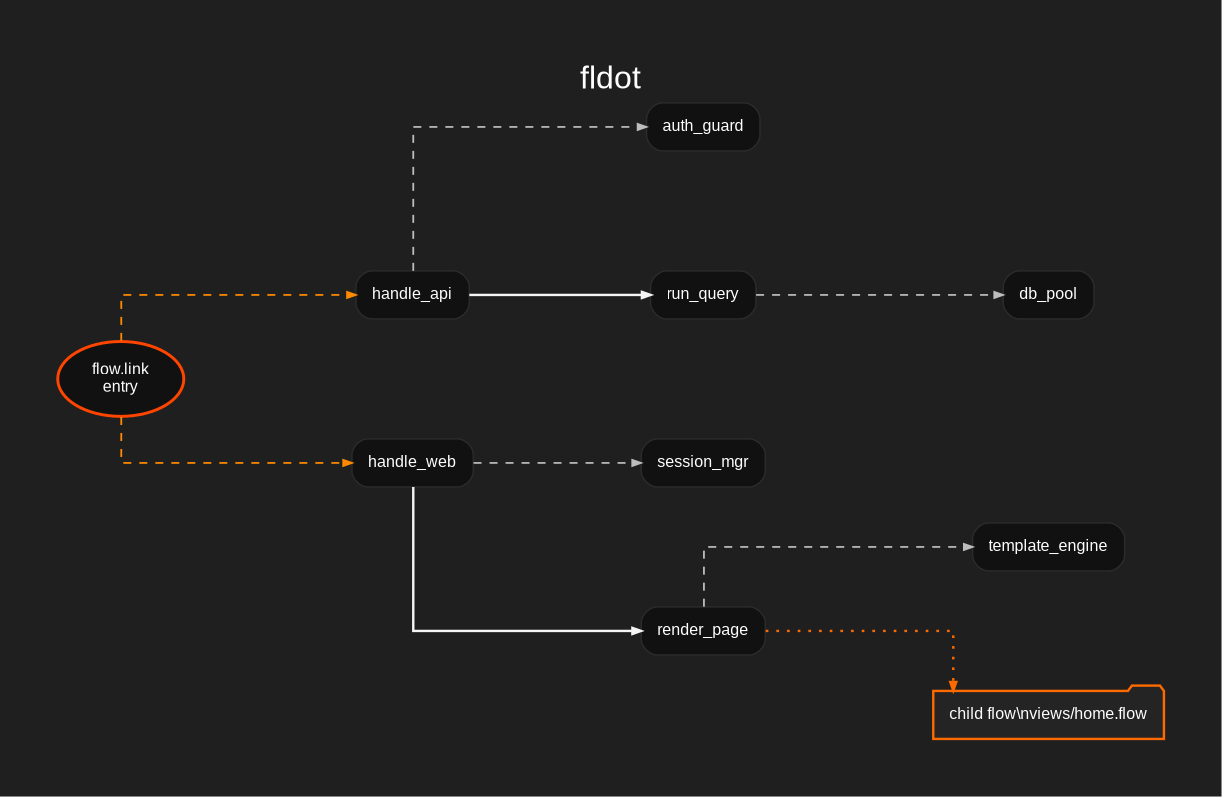
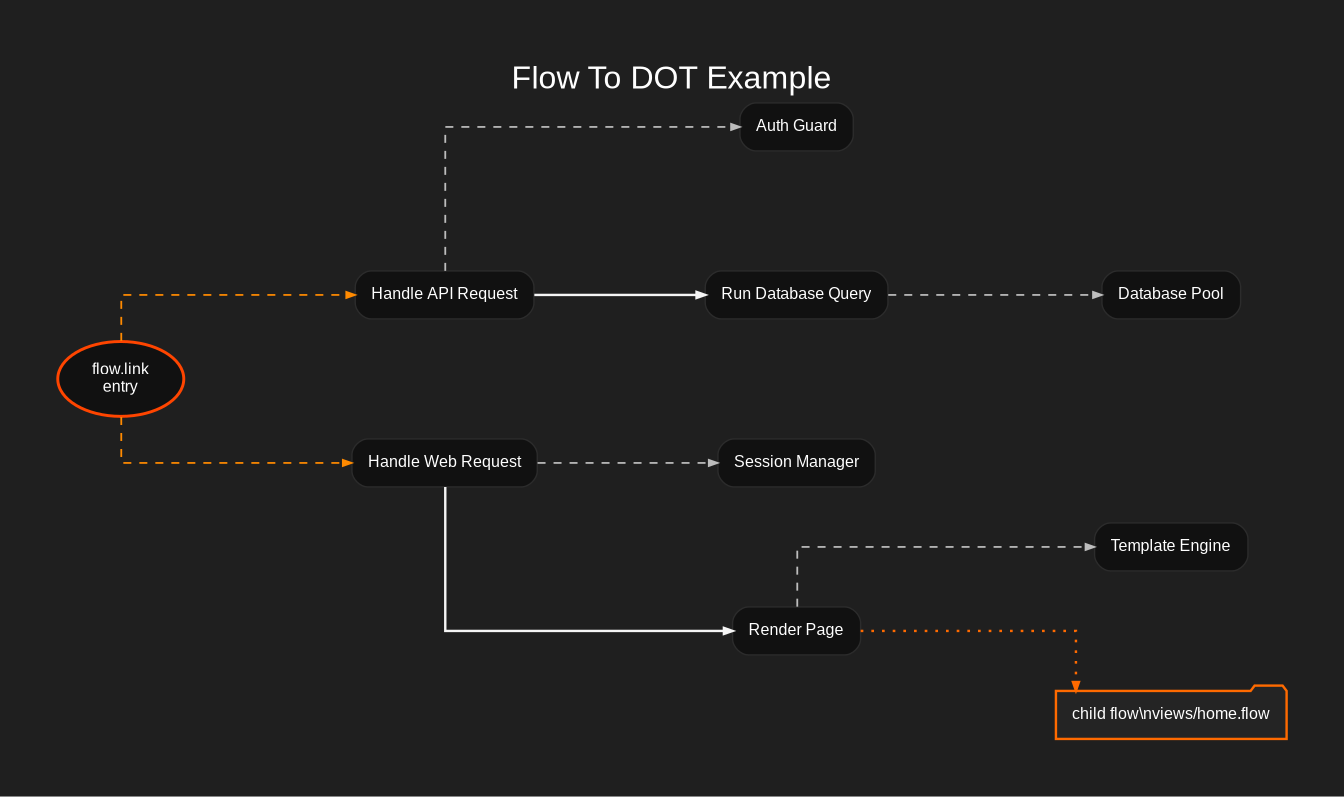
docs: add metadata section to README and enhance example files with metadata titles

diff --git a/src/fldot.c b/src/fldot.c
@@ -122,6 +122,19 @@ static void kc_records_add(kc_flow_records *r, const char *key, const char *valu
 }
 
 /**
+ * @brief Find one record value by exact key.
+ * @param r Records array.
+ * @param key Key to search.
+ * @return Matching value, or NULL when missing.
+ */
+static const char *kc_records_get(const kc_flow_records *r, const char *key) {
+    for (size_t i = 0; i < r->count; i++) {
+        if (strcmp(r->items[i].key, key) == 0) return r->items[i].value;
+    }
+    return NULL;
+}
+
+/**
  * @brief Add a unique string to the dynamic array.
  * @param s Strings array.
  * @param v Value to add.
@@ -160,6 +173,40 @@ static void kc_dot_quote(FILE *out, const char *s) {
         }
     }
     fputc('"', out);
+}
+
+/**
+ * @brief Build one metadata key for a referenced flow element.
+ * @param prefix Element prefix.
+ * @param ref Element reference.
+ * @param field Metadata field name.
+ * @return Allocated metadata key.
+ */
+static char *kc_meta_key(const char *prefix, const char *ref, const char *field) {
+    size_t n = strlen(prefix) + strlen(ref) + strlen(".meta.") + strlen(field);
+    char *key = (char *)kc_xmalloc(n + 1);
+    sprintf(key, "%s%s.meta.%s", prefix, ref, field);
+    return key;
+}
+
+/**
+ * @brief Find metadata for a referenced flow element.
+ * @param r Records array.
+ * @param prefix Element prefix.
+ * @param ref Element reference.
+ * @param field Metadata field name.
+ * @return Metadata value, or NULL when missing.
+ */
+static const char *kc_meta_value(
+const kc_flow_records *r,
+const char *prefix,
+const char *ref,
+const char *field
+) {
+    char *key = kc_meta_key(prefix, ref, field);
+    const char *value = kc_records_get(r, key);
+    free(key);
+    return value;
 }
 
 /**
@@ -282,6 +329,7 @@ static int kc_fldot_read_records(FILE *fp, kc_flow_records *r) {
 static int kc_fldot_generate_dot(const kc_flow_records *r, FILE *out) {
     kc_flow_strings nodes = {0}, funcs = {0}, files = {0};
     const char *flow_id = "flow";
+    const char *flow_title = NULL;
     for (size_t i = 0; i < r->count; i++) {
         char *ref = NULL, *field;
         if ((field = kc_field_after(r->items[i].key, "node.", &ref))) {
@@ -300,20 +348,29 @@ static int kc_fldot_generate_dot(const kc_flow_records *r, FILE *out) {
         }
     }
 
+    flow_title = kc_records_get(r, "flow.meta.title");
+    if (!flow_title) flow_title = flow_id;
+
     fprintf(out, "digraph "); kc_dot_quote(out, flow_id); fputs(" {\n", out);
-    fprintf(out, "  graph [rankdir=\"" KCV_GRAPH_RANKDIR "\", bgcolor=\"" KCV_BG "\", fontname=\"" KCV_FONT "\", fontcolor=\"" KCV_GRAPH_TEXT "\", label=\"%s\", labelloc=t, fontsize=" KCV_GRAPH_FONTSIZE ", pad=" KCV_GRAPH_PAD ", nodesep=" KCV_GRAPH_NODESEP ", ranksep=" KCV_GRAPH_RANKSEP ", splines=\"" KCV_GRAPH_SPLINES "\"];\n", flow_id);
+    fprintf(out, "  graph [rankdir=\"" KCV_GRAPH_RANKDIR "\", bgcolor=\"" KCV_BG "\", fontname=\"" KCV_FONT "\", fontcolor=\"" KCV_GRAPH_TEXT "\", label=");
+    kc_dot_quote(out, flow_title);
+    fputs(", labelloc=t, fontsize=" KCV_GRAPH_FONTSIZE ", pad=" KCV_GRAPH_PAD ", nodesep=" KCV_GRAPH_NODESEP ", ranksep=" KCV_GRAPH_RANKSEP ", splines=\"" KCV_GRAPH_SPLINES "\"];\n", out);
     fprintf(out, "  node [shape=\"" KCV_NODE_SHAPE "\", style=\"" KCV_NODE_STYLE "\", fillcolor=\"" KCV_NODE_FILL "\", color=\"" KCV_NODE_BORDER "\", fontname=\"" KCV_FONT "\", fontcolor=\"" KCV_NODE_TEXT "\", fontsize=" KCV_NODE_FONTSIZE ", margin=\"" KCV_NODE_MARGIN "\"];\n");
     fprintf(out, "  edge [arrowsize=" KCV_EDGE_ARROWSIZE ", penwidth=" KCV_EDGE_PENWIDTH "];\n");
     kc_dot_quote(out, "flow:entry"); fputs(" [label=\"flow.link\\nentry\", shape=\"" KCV_ENTRY_SHAPE "\", fillcolor=\"" KCV_ENTRY_FILL "\", color=\"" KCV_ENTRY_BORDER "\", penwidth=" KCV_ENTRY_PENWIDTH "];\n", out);
 
     for (size_t i = 0; i < nodes.count; i++) {
+        const char *label = kc_meta_value(r, "node.", nodes.items[i], "title");
+        if (!label) label = nodes.items[i];
         char b[1024]; snprintf(b, sizeof(b), "node:%s", nodes.items[i]);
-        kc_dot_quote(out, b); fprintf(out, " [label="); kc_dot_quote(out, nodes.items[i]); fputs("];\n", out);
+        kc_dot_quote(out, b); fprintf(out, " [label="); kc_dot_quote(out, label); fputs("];\n", out);
     }
     for (size_t i = 0; i < funcs.count; i++) {
         char b[1024]; snprintf(b, sizeof(b), "func:%s", funcs.items[i]);
         char l[1024]; snprintf(l, sizeof(l), "func.%s", funcs.items[i]);
-        kc_dot_quote(out, b); fprintf(out, " [label="); kc_dot_quote(out, l); fputs(", shape=\"" KCV_FUNC_SHAPE "\", fillcolor=\"" KCV_FUNC_FILL "\", color=\"" KCV_FUNC_BORDER "\", penwidth=" KCV_FUNC_PENWIDTH "];\n", out);
+        const char *label = kc_meta_value(r, "func.", funcs.items[i], "title");
+        if (!label) label = l;
+        kc_dot_quote(out, b); fprintf(out, " [label="); kc_dot_quote(out, label); fputs(", shape=\"" KCV_FUNC_SHAPE "\", fillcolor=\"" KCV_FUNC_FILL "\", color=\"" KCV_FUNC_BORDER "\", penwidth=" KCV_FUNC_PENWIDTH "];\n", out);
     }
     for (size_t i = 0; i < files.count; i++) {
         char b[1024]; snprintf(b, sizeof(b), "file:%s", files.items[i]);

diff --git a/README.md b/README.md
@@ -43,6 +43,27 @@ dot -Tpng example.dot -o example.png
 
 ---
 
+## Flow Metadata
+
+Flow documents may attach display metadata under the `meta` namespace:
+
+```flow
+flow.meta.title=Website Runtime
+flow.meta.summary=Registers the listener and dispatches parsed requests.
+
+node.router.meta.title=Request Router
+node.router.meta.summary=Extracts request.path from parsed HTTP fields.
+```
+
+`fldot` builds graph structure from execution fields such as `flow.link`,
+`node.*.link`, `node.*.use`, and `node.*.file`. It uses `flow.meta.title` as
+the visible graph label, and `node.*.meta.title` or `func.*.meta.title` as
+visible element labels when present. Other metadata fields remain valid Flow
+data and are safe to keep in input documents; `*.meta.summary` can later map to
+DOT tooltip or graph-comment attributes.
+
+---
+
 ## Theming
 
 The visual appearance of the generated DOT graphs is fully customizable through the `src/theme.h` C header file. `fldot` is built with a sleek, dark KaisarCode product theme by default. 
